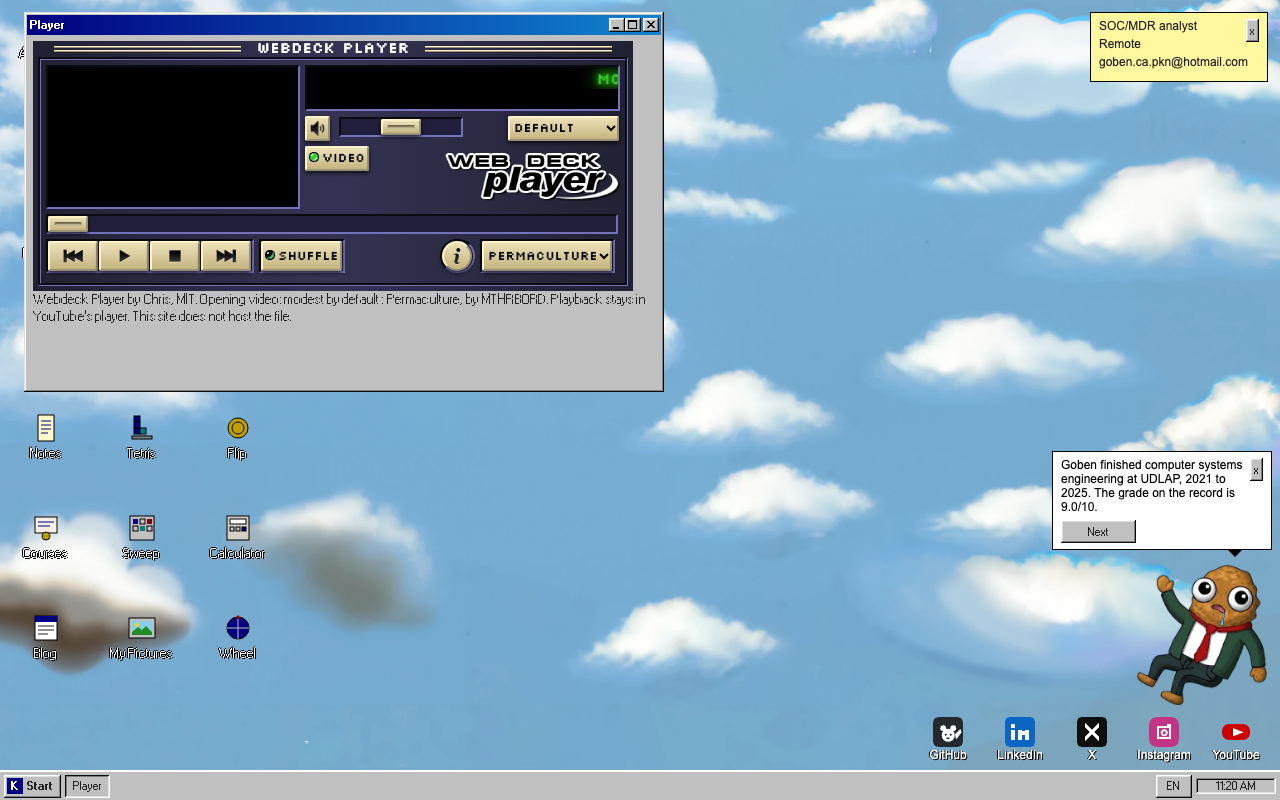
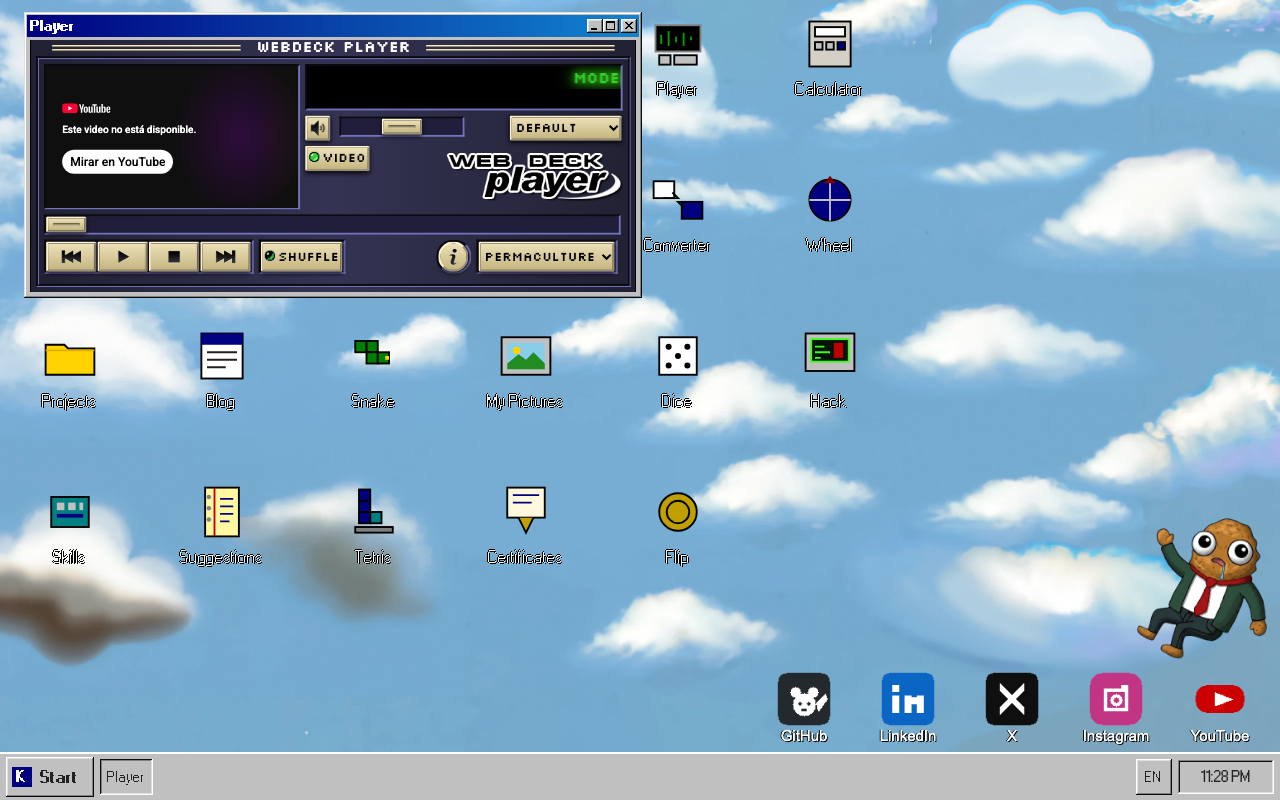
Hide the desktop game pad, square the boards, and enlarge the taskbar.

diff --git a/site/src/i18n-extra.ts b/site/src/i18n-extra.ts
@@ -11,16 +11,16 @@ const rows: readonly (readonly [string, string, string, string])[] = [
     "Goben Diego Constantino Aguirre. J'ai terminé l'ingénierie en systèmes informatiques à l'UDLAP, de 2021 à 2025, avec 9.0/10.",
   ],
   [
-    "SOC/MDR analyst at TBSeK, full-time, July 2026 to present. The junior seat was part-time from April 2025. I am looking at MDR, SOC, and SRE roles in Mexico, the United States, Austria, Ireland, and the Netherlands.",
+    "SOC/MDR analyst at TBSeK, full-time, July 2026 to present. The junior seat was part-time from April 2025. I am looking for MDR, SOC, and SRE roles in Mexico, the United States, Austria, Ireland, and the Netherlands.",
     "Analista SOC/MDR en TBSeK, tiempo completo, de julio de 2026 a la fecha. El puesto junior fue de medio tiempo desde abril de 2025. Busco puestos de MDR, SOC y SRE en México, Estados Unidos, Austria, Irlanda y Países Bajos.",
     "SOC/MDR-Analyst bei TBSeK, Vollzeit, Juli 2026 bis heute. Die Junior-Stelle war Teilzeit ab April 2025. Ich suche MDR-, SOC- und SRE-Rollen in Mexiko, den USA, Österreich, Irland und den Niederlanden.",
     "Analyste SOC/MDR chez TBSeK, temps plein, de juillet 2026 à aujourd'hui. Le poste junior était à temps partiel depuis avril 2025. Je cherche des postes MDR, SOC et SRE au Mexique, aux États-Unis, en Autriche, en Irlande et aux Pays-Bas.",
   ],
   [
-    "Hack The Box University CTF 2025 finished 52 of 1,014. HTB Cyber Apocalypse CTF 2025 scored 34,125 points.",
-    "Hack The Box University CTF 2025 quedó 52 de 1,014. HTB Cyber Apocalypse CTF 2025 sumó 34,125 puntos.",
-    "Hack The Box University CTF 2025 endete als 52 von 1,014. HTB Cyber Apocalypse CTF 2025 kam auf 34,125 Punkte.",
-    "Hack The Box University CTF 2025 a fini 52e sur 1,014. HTB Cyber Apocalypse CTF 2025 a marqué 34,125 points.",
+    "Hack The Box University CTF 2025 finished 52 of 1,014, top 5%, and UDLAP was the only Mexican university in the top 100. HTB Cyber Apocalypse CTF 2025 scored 34,125 points, rank 293, 3rd in Mexico.",
+    "Hack The Box University CTF 2025 quedó 52 de 1,014, top 5%, y la UDLAP fue la única universidad mexicana en el top 100. HTB Cyber Apocalypse CTF 2025 sumó 34,125 puntos, rango 293, 3.er lugar en México.",
+    "Hack The Box University CTF 2025 endete als 52 von 1,014, Top 5%, und die UDLAP war die einzige mexikanische Universität in den Top 100. HTB Cyber Apocalypse CTF 2025 kam auf 34,125 Punkte, Rang 293, 3. in Mexiko.",
+    "Hack The Box University CTF 2025 a fini 52e sur 1,014, top 5%, et l'UDLAP était la seule université mexicaine du top 100. HTB Cyber Apocalypse CTF 2025 a marqué 34,125 points, rang 293, 3e au Mexique.",
   ],
   [
     "Read next",
@@ -921,7 +921,7 @@ const rows: readonly (readonly [string, string, string, string])[] = [
   ["a public page for suggestions. they show in the editor", "una página pública de sugerencias. se ven en el editor", "eine öffentliche Seite für Vorschläge. sie erscheinen im Editor", "une page publique pour des suggestions. elles apparaissent dans l'éditeur"],
   ["dark board, arrows, esc to leave", "tablero oscuro, flechas, esc para salir", "dunkles Brett, Pfeile, Esc zum Verlassen", "plateau sombre, flèches, esc pour sortir"],
   ["dark board, arrows, space drops, esc to leave", "tablero oscuro, flechas, espacio suelta, esc para salir", "dunkles Brett, Pfeile, Leertaste lässt fallen, Esc zum Verlassen", "plateau sombre, flèches, espace pose, esc pour sortir"],
-  ["light cycle. arrows, trails, esc leaves", "ciclo de luz. flechas, estelas, esc sale", "Lichtzyklus. Pfeile, Spuren, Esc beendet", "cycle de lumière. flèches, traînées, esc quitte"],
+  ["light cycle. arrows. a crash clears your trail. esc leaves", "ciclo de luz. flechas. un choque borra tu estela. esc sale", "Lichtzyklus. Pfeile. Ein Aufprall löscht deine Spur. Esc beendet", "cycle de lumière. flèches. un choc efface ta trace. esc quitte"],
   ["Again", "Otra vez", "Nochmal", "Recommencer"],
   ["Level", "Nivel", "Stufe", "Niveau"],
   ["Top scores", "Mejores puntajes", "Beste Punkte", "Meilleurs scores"],
@@ -936,7 +936,7 @@ const rows: readonly (readonly [string, string, string, string])[] = [
   ["You cleared the last grid.", "Limpiaste la última rejilla.", "Du hast das letzte Feld geräumt.", "Tu as dégagé la dernière grille."],
   ["You cleared the grid.", "Limpiaste la rejilla.", "Du hast das Feld geräumt.", "Tu as dégagé la grille."],
   ["The other bike crashed. Your trail is gone.", "La otra moto chocó. Tu estela ya no está.", "Das andere Motorrad ist aufgefahren. Deine Spur ist weg.", "L'autre moto a percuté. Ta trace a disparu."],
-  ["You are on the light cycle. Steer, and do not cross a trail. The bike speeds up while you last.", "Estás en el ciclo de luz. Conduce y no cruces una estela. La moto se acelera mientras duras.", "Du bist auf dem Lichtzyklus. Lenke und kreuze keine Spur. Das Bike wird schneller, solange du durchhältst.", "Tu es sur le cycle de lumière. Dirige et ne traverse pas une traînée. La moto accélère tant que tu tiens."],
+  ["You are on the light cycle. Steer, and do not cross a trail. If the other bike crashes, your trail clears. The bike speeds up while you last.", "Estás en el ciclo de luz. Conduce y no cruces una estela. Si la otra moto choca, tu estela se borra. La moto se acelera mientras duras.", "Du bist auf dem Lichtzyklus. Lenke und kreuze keine Spur. Wenn das andere Motorrad auffährt, ist deine Spur weg. Das Bike wird schneller, solange du durchhältst.", "Tu es sur le cycle de lumière. Dirige et ne traverse pas une traînée. Si l'autre moto percute, ta trace s'efface. La moto accélère tant que tu tiens."],
   ["game over. esc leaves", "fin de la partida. esc sale", "Spiel vorbei. Esc beendet", "partie finie. esc quitte"],
   ["arrows move. esc leaves", "las flechas mueven. esc sale", "Pfeile bewegen. Esc beendet", "les flèches déplacent. esc quitte"],
   ["arrows, space drops, esc leaves", "flechas, espacio suelta, esc sale", "Pfeile, Leertaste fällt, Esc beendet", "flèches, espace pose, esc quitte"],

diff --git a/site/src/styles.css b/site/src/styles.css
@@ -379,19 +379,16 @@ button.thumb img {
   align-items: stretch;
   justify-content: flex-start;
   gap: 0;
-  background: #050805;
+  background: silver;
   container-type: size;
 }
 
 .play-fit {
-  flex: 1 1 auto;
-  min-height: 0;
+  flex: 0 0 auto;
   width: 100%;
   display: grid;
-  place-items: stretch;
-  overflow: hidden;
-  background: #050805;
-  container-type: size;
+  place-items: center;
+  background: transparent;
 }
 
 .term-mount.playing pre.dos {
@@ -405,9 +402,11 @@ button.thumb img {
 }
 
 .play-board {
+  --gap: 2px;
+  --pad: 8px;
   display: grid;
-  gap: 2px;
-  padding: 8px;
+  gap: var(--gap);
+  padding: var(--pad);
   background: #050805;
   box-shadow: inset -1px -1px #dfdfdf, inset 1px 1px #0a0a0a, inset -2px -2px #fff, inset 2px 2px grey;
 }
@@ -417,36 +416,42 @@ button.thumb img {
 .play-board.cycle {
   flex: 0 0 auto;
   box-sizing: border-box;
-  max-width: 100%;
-  max-height: 100%;
-}
-
-.play-board.tetris {
-  justify-self: center;
-  align-self: center;
-  width: min(100cqw, calc(100cqh * var(--board-ratio, 0.625)));
-  height: min(100cqh, calc(100cqw / var(--board-ratio, 0.625)));
 }
 
 .play-board.snake,
+.play-board.tetris,
 .play-board.cycle {
+  --reserve: 64px;
+  --cell: min(
+    calc((100cqw - 2 * var(--pad) - (var(--cols) - 1) * var(--gap)) / var(--cols)),
+    calc((100cqh - var(--reserve) - 2 * var(--pad) - (var(--rows) - 1) * var(--gap)) / var(--rows))
+  );
+  justify-self: center;
+  align-self: center;
+  width: calc(var(--cols) * var(--cell) + (var(--cols) - 1) * var(--gap) + 2 * var(--pad));
+  height: calc(var(--rows) * var(--cell) + (var(--rows) - 1) * var(--gap) + 2 * var(--pad));
   aspect-ratio: auto !important;
-  width: 100%;
-  height: 100%;
 }
 
 .play-board.snake {
-  --board-ratio: 1.6667;
-  aspect-ratio: 20 / 12;
-  grid-template-columns: repeat(20, minmax(0, 1fr));
-  grid-template-rows: repeat(12, minmax(0, 1fr));
+  --cols: 20;
+  --rows: 12;
+  grid-template-columns: repeat(20, var(--cell)) !important;
+  grid-template-rows: repeat(12, var(--cell)) !important;
 }
 
 .play-board.tetris {
-  --board-ratio: 0.625;
-  aspect-ratio: 10 / 16;
-  grid-template-columns: repeat(10, minmax(0, 1fr));
-  grid-template-rows: repeat(16, minmax(0, 1fr));
+  --cols: 10;
+  --rows: 16;
+  grid-template-columns: repeat(10, var(--cell)) !important;
+  grid-template-rows: repeat(16, var(--cell)) !important;
+}
+
+.play-board.cycle {
+  --cols: 28;
+  --rows: 16;
+  grid-template-columns: repeat(28, var(--cell)) !important;
+  grid-template-rows: repeat(16, var(--cell)) !important;
 }
 
 .play-cell {
@@ -925,43 +930,7 @@ form.editor textarea {
 
 @media (min-width: 701px) and (pointer: fine) {
   .term-mount.playing .pad {
-    display: flex;
-    justify-content: center;
-    gap: 8px;
-    padding: 6px 8px;
-  }
-
-  .term-mount.playing .pad-move {
-    width: 168px;
-    aspect-ratio: 168 / 120;
-  }
-
-  .term-mount.playing .pad-act {
-    display: flex;
-    flex: 1 1 220px;
-    flex-wrap: wrap;
-    max-width: 360px;
-    gap: 6px;
-    align-content: center;
-  }
-
-  .term-mount.playing .pad button {
-    min-height: 36px;
-    height: 36px;
-    font-size: 14px;
-  }
-
-  .term-mount.playing .pad-move button {
-    height: 100%;
-    min-height: 32px;
-    font-size: 18px;
-  }
-
-  .term-mount.playing .pad-exit,
-  .term-mount.playing .pad-again {
-    grid-column: auto;
-    width: auto;
-    flex: 1 1 72px;
+    display: none;
   }
 }
 
@@ -2117,7 +2086,7 @@ button#lang,
 
 @media (min-width: 701px) and (pointer: fine) {
   :root {
-    --bar: 36px;
+    --bar: 48px;
   }
 
   button.desk-icon,
@@ -2155,11 +2124,39 @@ button#lang,
   }
 
   #taskbar {
+    font-size: 15px;
+    gap: 6px;
+    padding: 4px 6px;
+  }
+
+  button.start-btn {
+    height: 40px;
+    padding: 0 16px 0 6px;
+    gap: 8px;
+    font-size: 16px;
+  }
+
+  button.start-btn .k-mark {
+    width: 20px;
+    height: 20px;
+    line-height: 20px;
+    font-size: 15px;
+  }
+
+  button.task-btn,
+  button#lang {
+    height: 36px;
     font-size: 14px;
   }
 
   #clock {
-    min-width: 84px;
+    min-width: 96px;
+    height: 34px;
+    display: flex;
+    align-items: center;
+    justify-content: center;
+    box-sizing: border-box;
+    font-size: 14px;
   }
 
   button.menu-item {
@@ -2384,7 +2381,7 @@ button#lang,
   }
 
   .play-fit {
-    place-items: stretch;
+    place-items: center;
   }
 
   .math-keys {

diff --git a/site/src/catalog.ts b/site/src/catalog.ts
@@ -542,8 +542,8 @@ export const radio = {
 
 export const bio = [
   "Goben Diego Constantino Aguirre. I finished computer systems engineering at UDLAP, 2021 to 2025, with a 9.0/10.",
-  "SOC/MDR analyst at TBSeK, full-time, July 2026 to present. The junior seat was part-time from April 2025. I am looking at MDR, SOC, and SRE roles in Mexico, the United States, Austria, Ireland, and the Netherlands.",
-  "Hack The Box University CTF 2025 finished 52 of 1,014. HTB Cyber Apocalypse CTF 2025 scored 34,125 points.",
+  "SOC/MDR analyst at TBSeK, full-time, July 2026 to present. The junior seat was part-time from April 2025. I am looking for MDR, SOC, and SRE roles in Mexico, the United States, Austria, Ireland, and the Netherlands.",
+  "Hack The Box University CTF 2025 finished 52 of 1,014, top 5%, and UDLAP was the only Mexican university in the top 100. HTB Cyber Apocalypse CTF 2025 scored 34,125 points, rank 293, 3rd in Mexico.",
 ];
 
 const GH = "https://github.com/PocketNugget";

diff --git a/site/src/desktop/facts.ts b/site/src/desktop/facts.ts
@@ -49,7 +49,7 @@ export const NUGGET_TIPS: Record<string, string> = {
   "/pictures": "You are in the photos. The portrait is the same one on About.",
   "/notes": "You are on the notes. Two short ones. Solve steps stay in the repo, not on this page.",
   "/radio": "You are on the radio page. HackRF One, bladeRF, and the iMac G4. He will tell you it is bench work, not a guide.",
-  "/tron": "You are on the light cycle. Steer, and do not cross a trail. The bike speeds up while you last.",
+  "/tron": "You are on the light cycle. Steer, and do not cross a trail. If the other bike crashes, your trail clears. The bike speeds up while you last.",
 };
 
 const TOOLS: { label: string; path: string }[] = [

diff --git a/site/src/shell.ts b/site/src/shell.ts
@@ -37,7 +37,7 @@ export const HELP: HelpLine[] = [
   { cmd: "pad", blurb: "a public page for suggestions. they show in the editor" },
   { cmd: "snake", blurb: "dark board, arrows, esc to leave" },
   { cmd: "tetris", blurb: "dark board, arrows, space drops, esc to leave" },
-  { cmd: "tron", blurb: "light cycle. arrows, trails, esc leaves" },
+  { cmd: "tron", blurb: "light cycle. arrows. a crash clears your trail. esc leaves" },
   { cmd: "clear", blurb: "clear the terminal" },
   { cmd: "exit", blurb: "leave a game, or close the terminal" },
 ];

diff --git a/.grok/skills/humanizer/SKILL.md b/.grok/skills/humanizer/SKILL.md
@@ -1,0 +1,56 @@
+---
+name: humanizer
+description: >
+  Crosscheck user-visible prose for AI-writing tells and rewrite only the lines that
+  fail, keeping specific facts and a plain voice. Use when the user says humanizer,
+  AI slop, Wikipedia signs of AI writing, WP:AISIGNS, or asks to make site or README
+  copy sound like a person. Slash command: /humanizer.
+---
+
+# Humanizer
+
+Checklist distilled from [Wikipedia:Signs of AI writing](https://en.wikipedia.org/wiki/Wikipedia:Signs_of_AI_writing) (WP:AISIGNS). The page is descriptive. A hit is a lead, not a verdict. Do not paste that article into a file, and do not "fix" a tell by swapping in a synonym from the same list.
+
+## When to run
+
+Run this on text a visitor, a recruiter, or a repo reader sees: page copy, captions, tips, the README, and commit messages you are about to write. Skip tests, lockfiles, generated bundles, and vendor trees.
+
+## Pass 1: inventory
+
+Collect the strings. Note the file and the fact each sentence is allowed to say. If a fact is not already in the repo, do not add it.
+
+## Pass 2: score
+
+Flag a line only when a pattern below is doing the work of the sentence. One ordinary word is not a hit.
+
+- Significance padding: stands as, testament, pivotal, crucial, underscores, highlights its importance, reflects a broader, setting the stage, evolving landscape, indelible, deeply rooted.
+- Notability padding: independent coverage, featured in, active social media presence, written by a leading expert, when the sentence is about the outlet instead of the work.
+- Trailing participle: highlighting, ensuring, reflecting, contributing to, fostering, showcasing, encompassing, tacked on to sound analytical.
+- Ad copy: boasts, vibrant, rich, profound, groundbreaking, renowned, nestled, in the heart of, diverse array, commitment to.
+- Vague link: associated with, in connection with, when a plain verb would name the relationship.
+- Weasel: experts argue, observers have cited, some critics, several sources, when the page has one source.
+- Formula sections: Despite these challenges, Future outlook, Awards and recognition, In conclusion, Overall.
+- Copula dodge: serves as, stands as, functions as, represents a, boasts a, when "is" or "has" is the true verb.
+- Contrast costume: not just X but Y, it is not X it is Y, rather than, used to sound deep. A real correction stays ("this is not a Google login").
+- Rule of three: adjective, adjective, and adjective, or three equal clauses, where a person would stop at one.
+- Vocabulary pile: additionally, delve, intricate, tapestry, meticulous, pivotal, underscore, robust, vibrant, foster, leverage, showcase, align with, garner. Later models also pile challenge, multifaceted, practical, prioritize, quietly, steady.
+- Emphasis machinery: bold on every term, emoji as bullets, title case on every heading, a heading that only contains headings.
+- Chat residue: Certainly, I hope this helps, as an AI language model, would you like, based on available information, while specific details are limited.
+- Placeholder: [Name], Add your URL here, 2025-xx-xx.
+- Markup leak: Markdown links or headings inside a site that is not Markdown, citation tokens, utm_source=chatgpt.com.
+
+Ignore, on their own: correct grammar, a formal sentence, one transition word, a missing citation, an em dash in a repo that already bans them, curly quotes from a phone.
+
+## Pass 3: rewrite
+
+Change the flagged line. Leave the clean neighbors.
+
+- Keep the names, dates, numbers, and tools. Do not promote a fact into a legacy.
+- Prefer a short sentence with "is" or "has". Vary the length. One specific detail beats three adjectives.
+- A list is for items a person would scan. Prose is for a sequence. Do not turn a paragraph into bold-label bullets.
+- Translations of a changed string change with it. Do not add a second key for the same line.
+- Read the new line back. If it could describe a different person or project, it is still slop. Rewrite again or restore the original.
+
+## Report
+
+Lead with what you changed and why. Then list the files you read and left alone, in one short group. Do not print a score for every sentence.

diff --git a/README.md b/README.md
@@ -8,7 +8,7 @@
 [![UI: 98.css](https://img.shields.io/badge/UI-98.css-000080?style=for-the-badge)](https://jdan.github.io/98.css/)
 [![Live](https://img.shields.io/badge/Live-pocketnugget.xyz-111111?style=for-the-badge)](https://pocketnugget.xyz)
 
-> Escritorio al estilo Windows 98 para el portafolio de Goben Diego Constantino Aguirre. TypeScript y Vite, servido por un Cloudflare Worker. Los posts y las sugerencias viven en D1. El sitio público está en inglés.
+> Escritorio al estilo Windows 98 para el portafolio de Goben Diego Constantino Aguirre. TypeScript y Vite, servido por un Cloudflare Worker. D1 guarda los posts, las sugerencias, los nombres de los puntajes y el estado del login. El sitio público está en inglés.
 
 ---
 
@@ -48,7 +48,7 @@ Otras capturas pueden ir en `docs/screenshots/`. Basta el archivo y una línea e
 
 Portfolio for Goben Diego Constantino Aguirre (PocketNugget). English, static, and meant to run on Cloudflare Workers.
 
-The page is a Windows 98 style desktop. Icons and the Start menu open the same pages. The Terminal window still runs the real commands, plus ASCII Snake and Tetris. Content lives in `site/src/catalog.ts` and `site/content/notes/`.
+The page is a Windows 98 style desktop. Icons and the Start menu open the same pages. The Terminal window still runs the real commands. Snake, Tetris, and Tron are their own windows, with a public best score. Content lives in `site/src/catalog.ts` and `site/content/notes/`.
 
 ## Run
 
